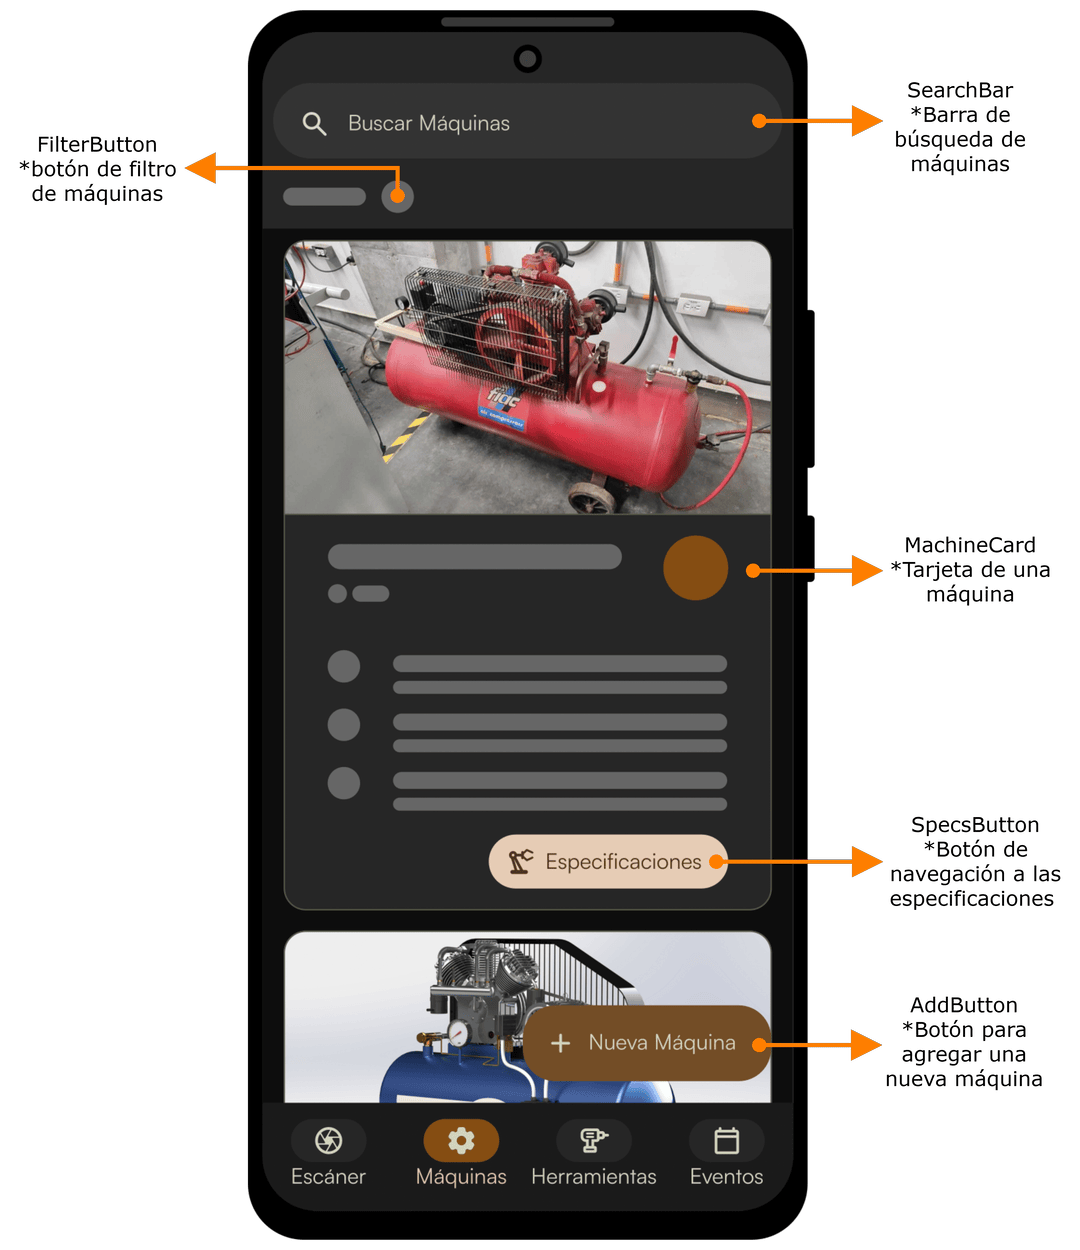
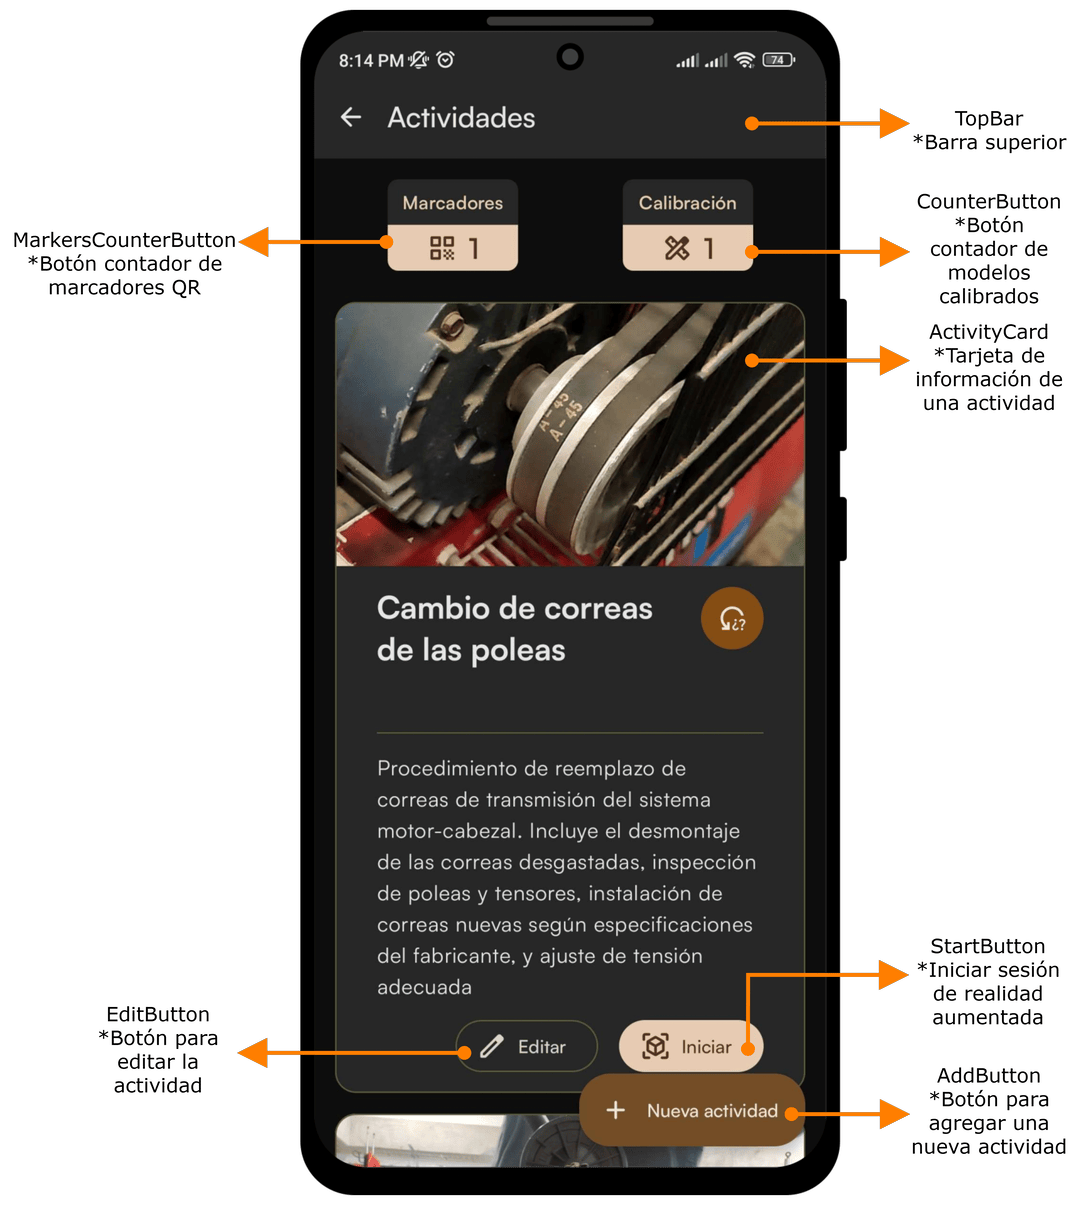
refactor: fix image

diff --git a/assets/figures/second_phase/coordinate_system/fig_coordinate_system_comparison.tex b/assets/figures/second_phase/coordinate_system/fig_coordinate_system_comparison.tex
@@ -8,7 +8,6 @@
     }
         \hline
 
-        \vspace{4pt}
         \includegraphics[width=\textwidth]
         {assets/figures/second_phase/coordinate_system/img_coordinate_system_global.png} \\
 
@@ -16,7 +15,6 @@
 
         \hline
 
-        \vspace{4pt}
         \includegraphics[width=\textwidth]
         {assets/figures/second_phase/coordinate_system/img_coordinate_system_local.png} \\
 
